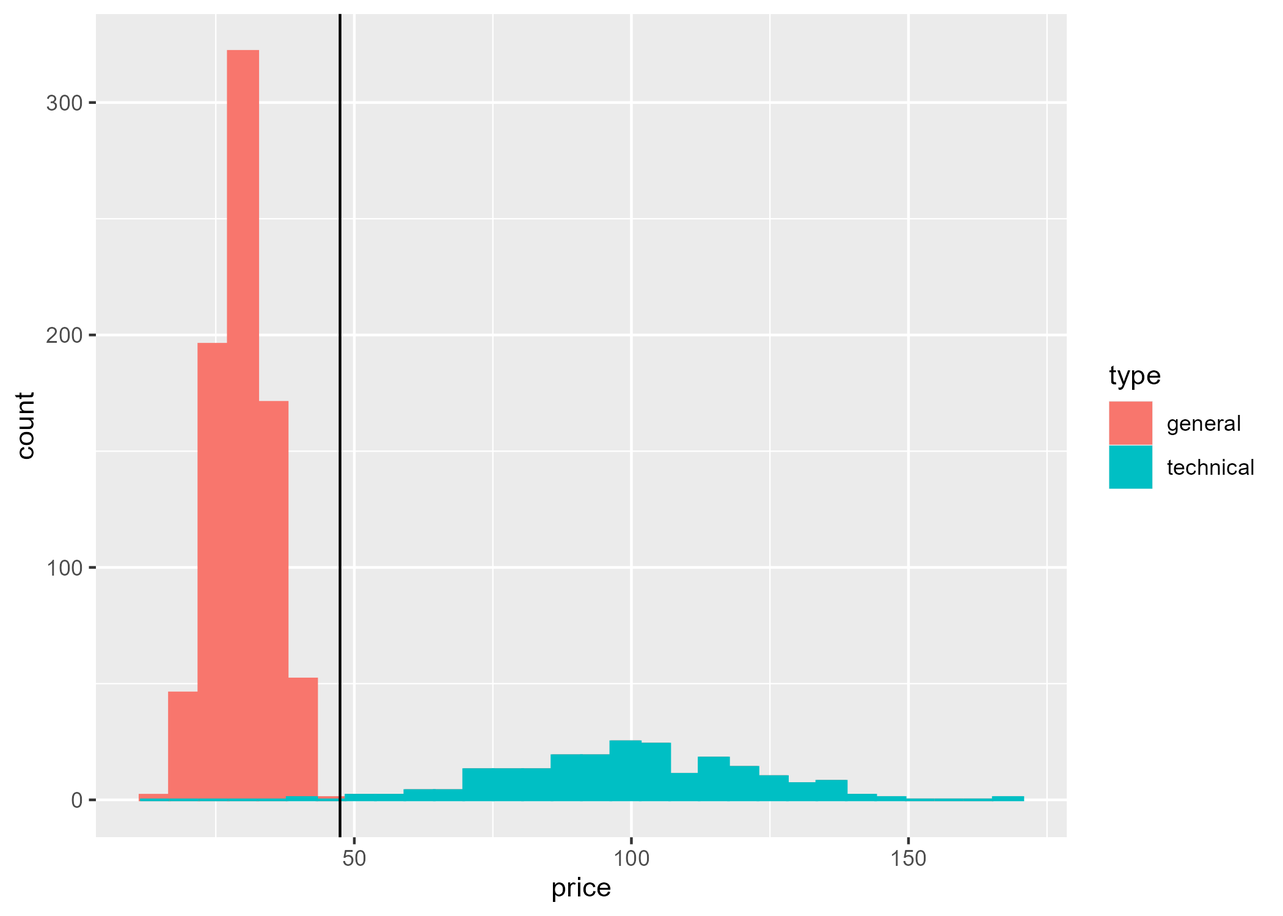
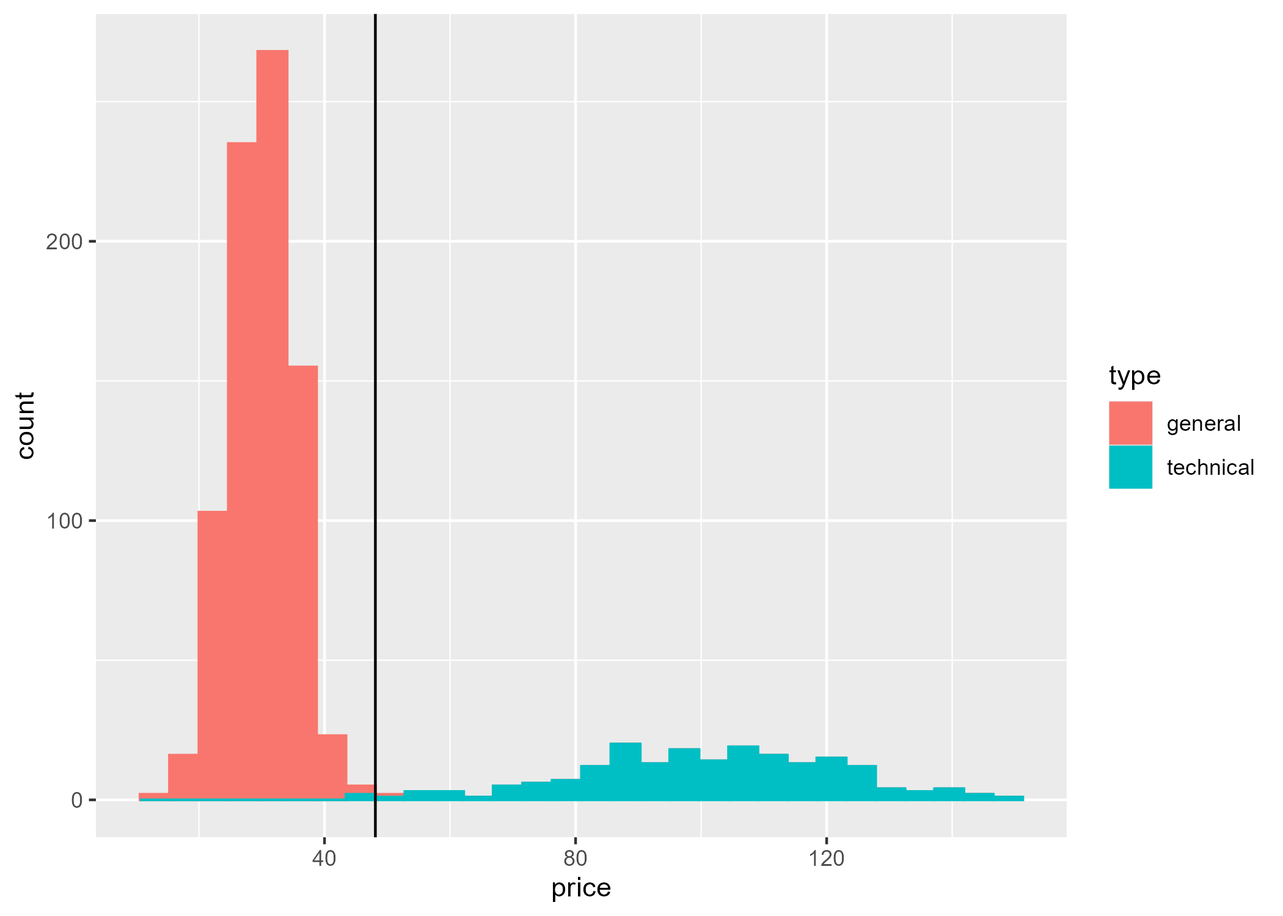
reduce-dim.qmd > LDA > Toy Example: ensure a common x-axis for the first two scenarios.

diff --git a/_book/reduce-dim.html b/_book/reduce-dim.html
@@ -376,7 +376,7 @@ window.Quarto = {
   <li><a href="#cancer-genomics-nci60" id="toc-cancer-genomics-nci60" class="nav-link" data-scroll-target="#cancer-genomics-nci60"><span class="header-section-number">7.1.4</span> Cancer Genomics (NCI60)</a></li>
   </ul></li>
   <li><a href="#sec-dim-r-curse" id="toc-sec-dim-r-curse" class="nav-link" data-scroll-target="#sec-dim-r-curse"><span class="header-section-number">7.2</span> Dimensionality: Curse and Blessing</a></li>
-  <li><a href="#sec-dim-r-pca" id="toc-sec-dim-r-pca" class="nav-link" data-scroll-target="#sec-dim-r-pca"><span class="header-section-number">7.3</span> Principal Component Analysis</a>
+  <li><a href="#sec-dim-r-pca" id="toc-sec-dim-r-pca" class="nav-link" data-scroll-target="#sec-dim-r-pca"><span class="header-section-number">7.3</span> PCA: Principal Component Analysis</a>
   <ul>
   <li><a href="#d-example-galton-heights" id="toc-d-example-galton-heights" class="nav-link" data-scroll-target="#d-example-galton-heights"><span class="header-section-number">7.3.1</span> 2D Example: Galton heights</a></li>
   <li><a href="#d-example-us-arrests" id="toc-d-example-us-arrests" class="nav-link" data-scroll-target="#d-example-us-arrests"><span class="header-section-number">7.3.2</span> 3D Example: US Arrests</a></li>
@@ -439,7 +439,7 @@ window.Quarto = {
     <div>
     <div class="quarto-title-meta-heading">Published</div>
     <div class="quarto-title-meta-contents">
-      <p class="date">11:30 Tue 25-Nov-2025</p>
+      <p class="date">14:18 Tue 25-Nov-2025</p>
     </div>
   </div>
   
@@ -639,8 +639,8 @@ Figure&nbsp;7.1: Violent Crime Rates per US State (1973)
 <div id="fig-arrests-3d-scatter" class="cell-output-display quarto-float quarto-figure quarto-figure-center anchored">
 <figure class="quarto-float quarto-float-fig figure">
 <div aria-describedby="fig-arrests-3d-scatter-caption-0ceaefa1-69ba-4598-a22c-09a6ac19f8ca">
-<div class="plotly html-widget html-fill-item" id="htmlwidget-4d69d4f44c3f3319bedb" style="width:100%;height:464px;"></div>
-<script type="application/json" data-for="htmlwidget-4d69d4f44c3f3319bedb">{"x":{"visdat":{"8a7077152c36":["function () ","plotlyVisDat"]},"cur_data":"8a7077152c36","attrs":{"8a7077152c36":{"x":{},"y":{},"z":{},"mode":"markers","text":{},"marker":{"size":5,"color":{},"colorscale":"Viridis","showscale":true,"colorbar":{"title":"UrbanPop"}},"alpha_stroke":1,"sizes":[10,100],"spans":[1,20],"type":"scatter3d"}},"layout":{"margin":{"b":40,"l":60,"t":25,"r":10},"scene":{"xaxis":{"title":"Assault"},"yaxis":{"title":"Rape"},"zaxis":{"title":"Murder"}},"title":"Violent Crime Rates in each US State (1973)","hovermode":"closest","showlegend":false},"source":"A","config":{"modeBarButtonsToAdd":["hoverclosest","hovercompare"],"showSendToCloud":false},"data":[{"x":[236,263,294,190,276,204,110,238,335,211,46,120,249,113,56,115,109,249,83,300,149,255,72,259,178,109,102,252,57,159,285,254,337,45,120,151,159,106,174,279,86,188,201,120,48,156,145,81,53,161],"y":[21.199999999999999,44.5,31,19.5,40.600000000000001,38.700000000000003,11.1,15.800000000000001,31.899999999999999,25.800000000000001,20.199999999999999,14.199999999999999,24,21,11.300000000000001,18,16.300000000000001,22.199999999999999,7.7999999999999998,27.800000000000001,16.300000000000001,35.100000000000001,14.9,17.100000000000001,28.199999999999999,16.399999999999999,16.5,46,9.5,18.800000000000001,32.100000000000001,26.100000000000001,16.100000000000001,7.2999999999999998,21.399999999999999,20,29.300000000000001,14.9,8.3000000000000007,22.5,12.800000000000001,26.899999999999999,25.5,22.899999999999999,11.199999999999999,20.699999999999999,26.199999999999999,9.3000000000000007,10.800000000000001,15.6],"z":[13.199999999999999,10,8.0999999999999996,8.8000000000000007,9,7.9000000000000004,3.2999999999999998,5.9000000000000004,15.4,17.399999999999999,5.2999999999999998,2.6000000000000001,10.4,7.2000000000000002,2.2000000000000002,6,9.6999999999999993,15.4,2.1000000000000001,11.300000000000001,4.4000000000000004,12.1,2.7000000000000002,16.100000000000001,9,6,4.2999999999999998,12.199999999999999,2.1000000000000001,7.4000000000000004,11.4,11.1,13,0.80000000000000004,7.2999999999999998,6.5999999999999996,4.9000000000000004,6.2999999999999998,3.3999999999999999,14.4,3.7999999999999998,13.199999999999999,12.699999999999999,3.2000000000000002,2.2000000000000002,8.5,4,5.7000000000000002,2.6000000000000001,6.7999999999999998],"mode":"markers","text":["AL","AK","AZ","AR","CA","CO","CT","DE","FL","GA","HI","ID","IL","IN","IA","KS","KY","LA","ME","MD","MA","MI","MN","MS","MO","MT","NE","NV","NH","NJ","NM","NY","NC","ND","OH","OK","OR","PA","RI","SC","SD","TN","TX","UT","VT","VA","WA","WV","WI","WY"],"marker":{"color":[58,48,80,50,91,78.5,77,72,80.5,60,83,54,83,65,57,66,52,66,51,76.599999999999994,85,74,66,44.5,70,53,61.5,81,56,89,70,86,45,44,75,68,67,71.5,87,48,45,59,80,80,32,63,73,39,66,60.5],"size":5,"colorscale":"Viridis","showscale":true,"colorbar":{"title":"UrbanPop"},"line":{"color":"rgba(31,119,180,1)"}},"type":"scatter3d","error_y":{"color":"rgba(31,119,180,1)"},"error_x":{"color":"rgba(31,119,180,1)"},"line":{"color":"rgba(31,119,180,1)"},"frame":null}],"highlight":{"on":"plotly_click","persistent":false,"dynamic":false,"selectize":false,"opacityDim":0.20000000000000001,"selected":{"opacity":1},"debounce":0},"shinyEvents":["plotly_hover","plotly_click","plotly_selected","plotly_relayout","plotly_brushed","plotly_brushing","plotly_clickannotation","plotly_doubleclick","plotly_deselect","plotly_afterplot","plotly_sunburstclick"],"base_url":"https://plot.ly"},"evals":[],"jsHooks":[]}</script>
+<div class="plotly html-widget html-fill-item" id="htmlwidget-e858f852c8847238b1bd" style="width:100%;height:464px;"></div>
+<script type="application/json" data-for="htmlwidget-e858f852c8847238b1bd">{"x":{"visdat":{"65ec51e6ab1":["function () ","plotlyVisDat"]},"cur_data":"65ec51e6ab1","attrs":{"65ec51e6ab1":{"x":{},"y":{},"z":{},"mode":"markers","text":{},"marker":{"size":5,"color":{},"colorscale":"Viridis","showscale":true,"colorbar":{"title":"UrbanPop"}},"alpha_stroke":1,"sizes":[10,100],"spans":[1,20],"type":"scatter3d"}},"layout":{"margin":{"b":40,"l":60,"t":25,"r":10},"scene":{"xaxis":{"title":"Assault"},"yaxis":{"title":"Rape"},"zaxis":{"title":"Murder"}},"title":"Violent Crime Rates in each US State (1973)","hovermode":"closest","showlegend":false},"source":"A","config":{"modeBarButtonsToAdd":["hoverclosest","hovercompare"],"showSendToCloud":false},"data":[{"x":[236,263,294,190,276,204,110,238,335,211,46,120,249,113,56,115,109,249,83,300,149,255,72,259,178,109,102,252,57,159,285,254,337,45,120,151,159,106,174,279,86,188,201,120,48,156,145,81,53,161],"y":[21.199999999999999,44.5,31,19.5,40.600000000000001,38.700000000000003,11.1,15.800000000000001,31.899999999999999,25.800000000000001,20.199999999999999,14.199999999999999,24,21,11.300000000000001,18,16.300000000000001,22.199999999999999,7.7999999999999998,27.800000000000001,16.300000000000001,35.100000000000001,14.9,17.100000000000001,28.199999999999999,16.399999999999999,16.5,46,9.5,18.800000000000001,32.100000000000001,26.100000000000001,16.100000000000001,7.2999999999999998,21.399999999999999,20,29.300000000000001,14.9,8.3000000000000007,22.5,12.800000000000001,26.899999999999999,25.5,22.899999999999999,11.199999999999999,20.699999999999999,26.199999999999999,9.3000000000000007,10.800000000000001,15.6],"z":[13.199999999999999,10,8.0999999999999996,8.8000000000000007,9,7.9000000000000004,3.2999999999999998,5.9000000000000004,15.4,17.399999999999999,5.2999999999999998,2.6000000000000001,10.4,7.2000000000000002,2.2000000000000002,6,9.6999999999999993,15.4,2.1000000000000001,11.300000000000001,4.4000000000000004,12.1,2.7000000000000002,16.100000000000001,9,6,4.2999999999999998,12.199999999999999,2.1000000000000001,7.4000000000000004,11.4,11.1,13,0.80000000000000004,7.2999999999999998,6.5999999999999996,4.9000000000000004,6.2999999999999998,3.3999999999999999,14.4,3.7999999999999998,13.199999999999999,12.699999999999999,3.2000000000000002,2.2000000000000002,8.5,4,5.7000000000000002,2.6000000000000001,6.7999999999999998],"mode":"markers","text":["AL","AK","AZ","AR","CA","CO","CT","DE","FL","GA","HI","ID","IL","IN","IA","KS","KY","LA","ME","MD","MA","MI","MN","MS","MO","MT","NE","NV","NH","NJ","NM","NY","NC","ND","OH","OK","OR","PA","RI","SC","SD","TN","TX","UT","VT","VA","WA","WV","WI","WY"],"marker":{"color":[58,48,80,50,91,78.5,77,72,80.5,60,83,54,83,65,57,66,52,66,51,76.599999999999994,85,74,66,44.5,70,53,61.5,81,56,89,70,86,45,44,75,68,67,71.5,87,48,45,59,80,80,32,63,73,39,66,60.5],"size":5,"colorscale":"Viridis","showscale":true,"colorbar":{"title":"UrbanPop"},"line":{"color":"rgba(31,119,180,1)"}},"type":"scatter3d","error_y":{"color":"rgba(31,119,180,1)"},"error_x":{"color":"rgba(31,119,180,1)"},"line":{"color":"rgba(31,119,180,1)"},"frame":null}],"highlight":{"on":"plotly_click","persistent":false,"dynamic":false,"selectize":false,"opacityDim":0.20000000000000001,"selected":{"opacity":1},"debounce":0},"shinyEvents":["plotly_hover","plotly_click","plotly_selected","plotly_relayout","plotly_brushed","plotly_brushing","plotly_clickannotation","plotly_doubleclick","plotly_deselect","plotly_afterplot","plotly_sunburstclick"],"base_url":"https://plot.ly"},"evals":[],"jsHooks":[]}</script>
 </div>
 <figcaption class="quarto-float-caption-bottom quarto-float-caption quarto-float-fig" id="fig-arrests-3d-scatter-caption-0ceaefa1-69ba-4598-a22c-09a6ac19f8ca">
 Figure&nbsp;7.2: Violent Crime Rates in each US State (1973)
@@ -919,7 +919,7 @@ Table&nbsp;7.4: Feature-quality correleations among (red, white) wines
 <p>The remainder of this chapter develops methods that exploit such opportunities. We begin with Principal Component Analysis (<a href="#sec-dim-r-pca" class="quarto-xref"><span>Section 7.3</span></a>), which finds low-dimensional approximations to high-dimensional data through eigen-decomposition. We then explore how supervision (<a href="#sec-dim-r-supervised" class="quarto-xref"><span>Section 7.5</span></a>) can guide dimension reduction when prediction is the goal. Finally, we examine computational strategies (<span class="quarto-unresolved-ref">?sec-dim-r-computation</span>) for extreme cases like NCI60 where <span class="math inline">\(d \gg n\)</span>.</p>
 </section>
 <section id="sec-dim-r-pca" class="level2" data-number="7.3">
-<h2 data-number="7.3" class="anchored" data-anchor-id="sec-dim-r-pca"><span class="header-section-number">7.3</span> Principal Component Analysis</h2>
+<h2 data-number="7.3" class="anchored" data-anchor-id="sec-dim-r-pca"><span class="header-section-number">7.3</span> PCA: Principal Component Analysis</h2>
 <p>Principal Component Analysis (PCA) is one of the most widely used methods to approximate a feature matrix of <span class="math inline">\(d\)</span> features with substantially fewer linear combinations of those features. The goal is to reveal the primary structure of the data and facilitate subsequent analyses (regression or classification, for example).</p>
 <p>We introduce the concept of a principal component using a 2D example (Galton height data), present a 3D example (US Arrest data) of constructing a single index of violent crime arrests from the three types of crimes in the feature matrix, and then move on to higher dimensional examples. See <span class="citation" data-cites="r_doc_LearnPCA">Hanson and Harvey (<a href="references.html#ref-r_doc_LearnPCA" role="doc-biblioref">2024</a>)</span> for an in-depth introduction to PCA.</p>
 <section id="d-example-galton-heights" class="level3" data-number="7.3.1">
@@ -951,8 +951,8 @@ Figure&nbsp;7.6: Principal Components: (father, son) centered heights
 <div id="fig-arm-pca" class="cell-output-display quarto-float quarto-figure quarto-figure-center anchored">
 <figure class="quarto-float quarto-float-fig figure">
 <div aria-describedby="fig-arm-pca-caption-0ceaefa1-69ba-4598-a22c-09a6ac19f8ca">
-<div class="plotly html-widget html-fill-item" id="htmlwidget-0f4744d7b4c1b33e36ad" style="width:100%;height:464px;"></div>
-<script type="application/json" data-for="htmlwidget-0f4744d7b4c1b33e36ad">{"x":{"visdat":{"8a704fac2b66":["function () ","plotlyVisDat"]},"cur_data":"8a704fac2b66","attrs":{"8a704fac2b66":{"x":[0.78283934708991831,1.106822522617628,1.4788032056309246,0.23086801100567186,1.2628144219457846,0.39885928720522512,-0.72908213870606098,0.80683810083271157,1.9707776573581877,0.48285492530500174,-1.4970422584754473,-0.60908836999209437,0.93883124641807492,-0.69308400809187098,-1.3770484897614808,-0.66908525434907773,-0.74108151557745772,0.93883124641807492,-1.0530653142337709,1.5507994668593046,-0.26110644072159123,1.0108275076464548,-1.185058459819134,1.0588250151320415,0.086875488548911931,-0.74108151557745772,-0.82507715367723433,0.9748293770322648,-1.3650491128900841,-0.14111267200762462,1.3708088137883547,0.99882813077505817,1.9947764111009809,-1.5090416353468439,-0.60908836999209437,-0.23710768697879792,-0.14111267200762462,-0.7770796461916476,0.038877981063325288,1.2988125525599747,-1.0170671836195808,0.20686925726287855,0.36286115659103513,-0.60908836999209437,-1.473043504732654,-0.17711080262181461,-0.3091039482071779,-1.0770640679765642,-1.4130466203756706,-0.11711391826483131],"y":[-0.0034164730151624227,2.4842029411499742,1.0428783878783285,-0.18491660194566589,2.0678202924270548,1.8649672071517862,-1.0817407684258011,-0.57994629432382061,1.1389666914297716,0.48770152291443553,-0.11018125473898803,-0.75076994508194173,0.29552491581154938,-0.024769429359927469,-1.0603878120810357,-0.3450637745314043,-0.52656390346190773,0.10334830870866318,-1.4340645481144254,0.70123108636208675,-0.52656390346190773,1.4806139929460138,-0.67603459787526365,-0.44115207808284718,0.74393699905161681,-0.51588742528952547,-0.50521094711714276,2.6443501137357126,-1.252564419183922,-0.25965194915234374,1.160319647774537,0.51973095743158326,-0.54791685980667282,-1.4874469389763383,0.017936483329602623,-0.13153421108375307,0.86137825894782516,-0.67603459787526365,-1.3806821572525125,0.13537774322581095,-0.90024063949529742,0.60514278281064349,0.45567208839728779,0.17808365591534103,-1.0710642902534184,-0.05679886387707523,0.53040743560396564,-1.273917375528687,-1.1137702029429486,-0.60129925066858581],"z":[1.2425640838811227,0.50786248217757646,0.071633406166095634,0.23234938153874665,0.27826823164521813,0.025714556059624149,-1.0304189963892241,-0.43347394500509234,1.747671435052311,2.2068599361170271,-0.57123049532450743,-1.1911349717618749,0.59970018239051981,-0.13500141931302667,-1.282972671974818,-0.41051451995185662,0.43898420701786878,1.747671435052311,-1.3059320970280539,0.8063350078696423,-0.7778653208036298,0.99001040829552867,-1.1681755467086388,1.9083874104249621,0.27826823164521813,-0.41051451995185662,-0.80082474585686569,1.0129698333487644,-1.3059320970280539,-0.089082569206554982,0.82929443292287808,0.7604161577631704,1.1966452337746512,-1.6044046227201196,-0.11204199425979093,-0.27275796963244175,-0.66306819553745067,-0.34163624479214921,-1.007459571335988,1.5180771845199528,-0.91562187112304483,1.2425640838811227,1.1277669586149435,-1.0533784214424597,-1.282972671974818,0.16347110637903903,-0.86970302101657315,-0.47939279511156407,-1.1911349717618749,-0.22683911952597005],"mode":"markers","text":["AL","AK","AZ","AR","CA","CO","CT","DE","FL","GA","HI","ID","IL","IN","IA","KS","KY","LA","ME","MD","MA","MI","MN","MS","MO","MT","NE","NV","NH","NJ","NM","NY","NC","ND","OH","OK","OR","PA","RI","SC","SD","TN","TX","UT","VT","VA","WA","WV","WI","WY"],"marker":{"size":4,"color":"steelblue","opacity":0.69999999999999996},"name":"State","alpha_stroke":1,"sizes":[10,100],"spans":[1,20],"type":"scatter3d"},"8a704fac2b66.1":{"x":[0,1.5489298635318458],"y":[0,1.3741651111024438],"z":[0,1.4842670890217005],"type":"scatter3d","mode":"lines","line":{"width":6,"color":"darkorange"},"name":"PC1","showlegend":false,"inherit":false},"8a704fac2b66.2":{"x":[0,-0.29354746751601463],"y":[0,1.1219106831632701],"z":[0,-0.73235207316550643],"type":"scatter3d","mode":"lines","line":{"width":6,"color":"purple"},"name":"PC2","showlegend":false,"inherit":false},"8a704fac2b66.3":{"x":[0,0.68703516343273274],"y":[0,-0.17966971158361228],"z":[0,-0.55062423656922754],"type":"scatter3d","mode":"lines","line":{"width":6,"color":"darkgreen"},"name":"PC3","showlegend":false,"inherit":false}},"layout":{"margin":{"b":40,"l":60,"t":25,"r":10},"scene":{"xaxis":{"title":"z_Assault"},"yaxis":{"title":"z_Rape"},"zaxis":{"title":"z_Murder"},"aspectmode":"cube"},"title":"US Arrest Z-scores: Principal Components","hovermode":"closest","showlegend":false},"source":"A","config":{"modeBarButtonsToAdd":["hoverclosest","hovercompare"],"showSendToCloud":false},"data":[{"x":[0.78283934708991831,1.106822522617628,1.4788032056309246,0.23086801100567186,1.2628144219457846,0.39885928720522512,-0.72908213870606098,0.80683810083271157,1.9707776573581877,0.48285492530500174,-1.4970422584754473,-0.60908836999209437,0.93883124641807492,-0.69308400809187098,-1.3770484897614808,-0.66908525434907773,-0.74108151557745772,0.93883124641807492,-1.0530653142337709,1.5507994668593046,-0.26110644072159123,1.0108275076464548,-1.185058459819134,1.0588250151320415,0.086875488548911931,-0.74108151557745772,-0.82507715367723433,0.9748293770322648,-1.3650491128900841,-0.14111267200762462,1.3708088137883547,0.99882813077505817,1.9947764111009809,-1.5090416353468439,-0.60908836999209437,-0.23710768697879792,-0.14111267200762462,-0.7770796461916476,0.038877981063325288,1.2988125525599747,-1.0170671836195808,0.20686925726287855,0.36286115659103513,-0.60908836999209437,-1.473043504732654,-0.17711080262181461,-0.3091039482071779,-1.0770640679765642,-1.4130466203756706,-0.11711391826483131],"y":[-0.0034164730151624227,2.4842029411499742,1.0428783878783285,-0.18491660194566589,2.0678202924270548,1.8649672071517862,-1.0817407684258011,-0.57994629432382061,1.1389666914297716,0.48770152291443553,-0.11018125473898803,-0.75076994508194173,0.29552491581154938,-0.024769429359927469,-1.0603878120810357,-0.3450637745314043,-0.52656390346190773,0.10334830870866318,-1.4340645481144254,0.70123108636208675,-0.52656390346190773,1.4806139929460138,-0.67603459787526365,-0.44115207808284718,0.74393699905161681,-0.51588742528952547,-0.50521094711714276,2.6443501137357126,-1.252564419183922,-0.25965194915234374,1.160319647774537,0.51973095743158326,-0.54791685980667282,-1.4874469389763383,0.017936483329602623,-0.13153421108375307,0.86137825894782516,-0.67603459787526365,-1.3806821572525125,0.13537774322581095,-0.90024063949529742,0.60514278281064349,0.45567208839728779,0.17808365591534103,-1.0710642902534184,-0.05679886387707523,0.53040743560396564,-1.273917375528687,-1.1137702029429486,-0.60129925066858581],"z":[1.2425640838811227,0.50786248217757646,0.071633406166095634,0.23234938153874665,0.27826823164521813,0.025714556059624149,-1.0304189963892241,-0.43347394500509234,1.747671435052311,2.2068599361170271,-0.57123049532450743,-1.1911349717618749,0.59970018239051981,-0.13500141931302667,-1.282972671974818,-0.41051451995185662,0.43898420701786878,1.747671435052311,-1.3059320970280539,0.8063350078696423,-0.7778653208036298,0.99001040829552867,-1.1681755467086388,1.9083874104249621,0.27826823164521813,-0.41051451995185662,-0.80082474585686569,1.0129698333487644,-1.3059320970280539,-0.089082569206554982,0.82929443292287808,0.7604161577631704,1.1966452337746512,-1.6044046227201196,-0.11204199425979093,-0.27275796963244175,-0.66306819553745067,-0.34163624479214921,-1.007459571335988,1.5180771845199528,-0.91562187112304483,1.2425640838811227,1.1277669586149435,-1.0533784214424597,-1.282972671974818,0.16347110637903903,-0.86970302101657315,-0.47939279511156407,-1.1911349717618749,-0.22683911952597005],"mode":"markers","text":["AL","AK","AZ","AR","CA","CO","CT","DE","FL","GA","HI","ID","IL","IN","IA","KS","KY","LA","ME","MD","MA","MI","MN","MS","MO","MT","NE","NV","NH","NJ","NM","NY","NC","ND","OH","OK","OR","PA","RI","SC","SD","TN","TX","UT","VT","VA","WA","WV","WI","WY"],"marker":{"color":"steelblue","size":4,"opacity":0.69999999999999996,"line":{"color":"rgba(31,119,180,1)"}},"name":"State","type":"scatter3d","error_y":{"color":"rgba(31,119,180,1)"},"error_x":{"color":"rgba(31,119,180,1)"},"line":{"color":"rgba(31,119,180,1)"},"frame":null},{"x":[0,1.5489298635318458],"y":[0,1.3741651111024438],"z":[0,1.4842670890217005],"type":"scatter3d","mode":"lines","line":{"color":"darkorange","width":6},"name":"PC1","showlegend":false,"marker":{"color":"rgba(255,127,14,1)","line":{"color":"rgba(255,127,14,1)"}},"error_y":{"color":"rgba(255,127,14,1)"},"error_x":{"color":"rgba(255,127,14,1)"},"frame":null},{"x":[0,-0.29354746751601463],"y":[0,1.1219106831632701],"z":[0,-0.73235207316550643],"type":"scatter3d","mode":"lines","line":{"color":"purple","width":6},"name":"PC2","showlegend":false,"marker":{"color":"rgba(44,160,44,1)","line":{"color":"rgba(44,160,44,1)"}},"error_y":{"color":"rgba(44,160,44,1)"},"error_x":{"color":"rgba(44,160,44,1)"},"frame":null},{"x":[0,0.68703516343273274],"y":[0,-0.17966971158361228],"z":[0,-0.55062423656922754],"type":"scatter3d","mode":"lines","line":{"color":"darkgreen","width":6},"name":"PC3","showlegend":false,"marker":{"color":"rgba(214,39,40,1)","line":{"color":"rgba(214,39,40,1)"}},"error_y":{"color":"rgba(214,39,40,1)"},"error_x":{"color":"rgba(214,39,40,1)"},"frame":null}],"highlight":{"on":"plotly_click","persistent":false,"dynamic":false,"selectize":false,"opacityDim":0.20000000000000001,"selected":{"opacity":1},"debounce":0},"shinyEvents":["plotly_hover","plotly_click","plotly_selected","plotly_relayout","plotly_brushed","plotly_brushing","plotly_clickannotation","plotly_doubleclick","plotly_deselect","plotly_afterplot","plotly_sunburstclick"],"base_url":"https://plot.ly"},"evals":[],"jsHooks":[]}</script>
+<div class="plotly html-widget html-fill-item" id="htmlwidget-a9f46fa1df12992e299b" style="width:100%;height:464px;"></div>
+<script type="application/json" data-for="htmlwidget-a9f46fa1df12992e299b">{"x":{"visdat":{"65ec111e7bae":["function () ","plotlyVisDat"]},"cur_data":"65ec111e7bae","attrs":{"65ec111e7bae":{"x":[0.78283934708991831,1.106822522617628,1.4788032056309246,0.23086801100567186,1.2628144219457846,0.39885928720522512,-0.72908213870606098,0.80683810083271157,1.9707776573581877,0.48285492530500174,-1.4970422584754473,-0.60908836999209437,0.93883124641807492,-0.69308400809187098,-1.3770484897614808,-0.66908525434907773,-0.74108151557745772,0.93883124641807492,-1.0530653142337709,1.5507994668593046,-0.26110644072159123,1.0108275076464548,-1.185058459819134,1.0588250151320415,0.086875488548911931,-0.74108151557745772,-0.82507715367723433,0.9748293770322648,-1.3650491128900841,-0.14111267200762462,1.3708088137883547,0.99882813077505817,1.9947764111009809,-1.5090416353468439,-0.60908836999209437,-0.23710768697879792,-0.14111267200762462,-0.7770796461916476,0.038877981063325288,1.2988125525599747,-1.0170671836195808,0.20686925726287855,0.36286115659103513,-0.60908836999209437,-1.473043504732654,-0.17711080262181461,-0.3091039482071779,-1.0770640679765642,-1.4130466203756706,-0.11711391826483131],"y":[-0.0034164730151624227,2.4842029411499742,1.0428783878783285,-0.18491660194566589,2.0678202924270548,1.8649672071517862,-1.0817407684258011,-0.57994629432382061,1.1389666914297716,0.48770152291443553,-0.11018125473898803,-0.75076994508194173,0.29552491581154938,-0.024769429359927469,-1.0603878120810357,-0.3450637745314043,-0.52656390346190773,0.10334830870866318,-1.4340645481144254,0.70123108636208675,-0.52656390346190773,1.4806139929460138,-0.67603459787526365,-0.44115207808284718,0.74393699905161681,-0.51588742528952547,-0.50521094711714276,2.6443501137357126,-1.252564419183922,-0.25965194915234374,1.160319647774537,0.51973095743158326,-0.54791685980667282,-1.4874469389763383,0.017936483329602623,-0.13153421108375307,0.86137825894782516,-0.67603459787526365,-1.3806821572525125,0.13537774322581095,-0.90024063949529742,0.60514278281064349,0.45567208839728779,0.17808365591534103,-1.0710642902534184,-0.05679886387707523,0.53040743560396564,-1.273917375528687,-1.1137702029429486,-0.60129925066858581],"z":[1.2425640838811227,0.50786248217757646,0.071633406166095634,0.23234938153874665,0.27826823164521813,0.025714556059624149,-1.0304189963892241,-0.43347394500509234,1.747671435052311,2.2068599361170271,-0.57123049532450743,-1.1911349717618749,0.59970018239051981,-0.13500141931302667,-1.282972671974818,-0.41051451995185662,0.43898420701786878,1.747671435052311,-1.3059320970280539,0.8063350078696423,-0.7778653208036298,0.99001040829552867,-1.1681755467086388,1.9083874104249621,0.27826823164521813,-0.41051451995185662,-0.80082474585686569,1.0129698333487644,-1.3059320970280539,-0.089082569206554982,0.82929443292287808,0.7604161577631704,1.1966452337746512,-1.6044046227201196,-0.11204199425979093,-0.27275796963244175,-0.66306819553745067,-0.34163624479214921,-1.007459571335988,1.5180771845199528,-0.91562187112304483,1.2425640838811227,1.1277669586149435,-1.0533784214424597,-1.282972671974818,0.16347110637903903,-0.86970302101657315,-0.47939279511156407,-1.1911349717618749,-0.22683911952597005],"mode":"markers","text":["AL","AK","AZ","AR","CA","CO","CT","DE","FL","GA","HI","ID","IL","IN","IA","KS","KY","LA","ME","MD","MA","MI","MN","MS","MO","MT","NE","NV","NH","NJ","NM","NY","NC","ND","OH","OK","OR","PA","RI","SC","SD","TN","TX","UT","VT","VA","WA","WV","WI","WY"],"marker":{"size":4,"color":"steelblue","opacity":0.69999999999999996},"name":"State","alpha_stroke":1,"sizes":[10,100],"spans":[1,20],"type":"scatter3d"},"65ec111e7bae.1":{"x":[0,1.5489298635318458],"y":[0,1.3741651111024438],"z":[0,1.4842670890217005],"type":"scatter3d","mode":"lines","line":{"width":6,"color":"darkorange"},"name":"PC1","showlegend":false,"inherit":false},"65ec111e7bae.2":{"x":[0,-0.29354746751601463],"y":[0,1.1219106831632701],"z":[0,-0.73235207316550643],"type":"scatter3d","mode":"lines","line":{"width":6,"color":"purple"},"name":"PC2","showlegend":false,"inherit":false},"65ec111e7bae.3":{"x":[0,0.68703516343273274],"y":[0,-0.17966971158361228],"z":[0,-0.55062423656922754],"type":"scatter3d","mode":"lines","line":{"width":6,"color":"darkgreen"},"name":"PC3","showlegend":false,"inherit":false}},"layout":{"margin":{"b":40,"l":60,"t":25,"r":10},"scene":{"xaxis":{"title":"z_Assault"},"yaxis":{"title":"z_Rape"},"zaxis":{"title":"z_Murder"},"aspectmode":"cube"},"title":"US Arrest Z-scores: Principal Components","hovermode":"closest","showlegend":false},"source":"A","config":{"modeBarButtonsToAdd":["hoverclosest","hovercompare"],"showSendToCloud":false},"data":[{"x":[0.78283934708991831,1.106822522617628,1.4788032056309246,0.23086801100567186,1.2628144219457846,0.39885928720522512,-0.72908213870606098,0.80683810083271157,1.9707776573581877,0.48285492530500174,-1.4970422584754473,-0.60908836999209437,0.93883124641807492,-0.69308400809187098,-1.3770484897614808,-0.66908525434907773,-0.74108151557745772,0.93883124641807492,-1.0530653142337709,1.5507994668593046,-0.26110644072159123,1.0108275076464548,-1.185058459819134,1.0588250151320415,0.086875488548911931,-0.74108151557745772,-0.82507715367723433,0.9748293770322648,-1.3650491128900841,-0.14111267200762462,1.3708088137883547,0.99882813077505817,1.9947764111009809,-1.5090416353468439,-0.60908836999209437,-0.23710768697879792,-0.14111267200762462,-0.7770796461916476,0.038877981063325288,1.2988125525599747,-1.0170671836195808,0.20686925726287855,0.36286115659103513,-0.60908836999209437,-1.473043504732654,-0.17711080262181461,-0.3091039482071779,-1.0770640679765642,-1.4130466203756706,-0.11711391826483131],"y":[-0.0034164730151624227,2.4842029411499742,1.0428783878783285,-0.18491660194566589,2.0678202924270548,1.8649672071517862,-1.0817407684258011,-0.57994629432382061,1.1389666914297716,0.48770152291443553,-0.11018125473898803,-0.75076994508194173,0.29552491581154938,-0.024769429359927469,-1.0603878120810357,-0.3450637745314043,-0.52656390346190773,0.10334830870866318,-1.4340645481144254,0.70123108636208675,-0.52656390346190773,1.4806139929460138,-0.67603459787526365,-0.44115207808284718,0.74393699905161681,-0.51588742528952547,-0.50521094711714276,2.6443501137357126,-1.252564419183922,-0.25965194915234374,1.160319647774537,0.51973095743158326,-0.54791685980667282,-1.4874469389763383,0.017936483329602623,-0.13153421108375307,0.86137825894782516,-0.67603459787526365,-1.3806821572525125,0.13537774322581095,-0.90024063949529742,0.60514278281064349,0.45567208839728779,0.17808365591534103,-1.0710642902534184,-0.05679886387707523,0.53040743560396564,-1.273917375528687,-1.1137702029429486,-0.60129925066858581],"z":[1.2425640838811227,0.50786248217757646,0.071633406166095634,0.23234938153874665,0.27826823164521813,0.025714556059624149,-1.0304189963892241,-0.43347394500509234,1.747671435052311,2.2068599361170271,-0.57123049532450743,-1.1911349717618749,0.59970018239051981,-0.13500141931302667,-1.282972671974818,-0.41051451995185662,0.43898420701786878,1.747671435052311,-1.3059320970280539,0.8063350078696423,-0.7778653208036298,0.99001040829552867,-1.1681755467086388,1.9083874104249621,0.27826823164521813,-0.41051451995185662,-0.80082474585686569,1.0129698333487644,-1.3059320970280539,-0.089082569206554982,0.82929443292287808,0.7604161577631704,1.1966452337746512,-1.6044046227201196,-0.11204199425979093,-0.27275796963244175,-0.66306819553745067,-0.34163624479214921,-1.007459571335988,1.5180771845199528,-0.91562187112304483,1.2425640838811227,1.1277669586149435,-1.0533784214424597,-1.282972671974818,0.16347110637903903,-0.86970302101657315,-0.47939279511156407,-1.1911349717618749,-0.22683911952597005],"mode":"markers","text":["AL","AK","AZ","AR","CA","CO","CT","DE","FL","GA","HI","ID","IL","IN","IA","KS","KY","LA","ME","MD","MA","MI","MN","MS","MO","MT","NE","NV","NH","NJ","NM","NY","NC","ND","OH","OK","OR","PA","RI","SC","SD","TN","TX","UT","VT","VA","WA","WV","WI","WY"],"marker":{"color":"steelblue","size":4,"opacity":0.69999999999999996,"line":{"color":"rgba(31,119,180,1)"}},"name":"State","type":"scatter3d","error_y":{"color":"rgba(31,119,180,1)"},"error_x":{"color":"rgba(31,119,180,1)"},"line":{"color":"rgba(31,119,180,1)"},"frame":null},{"x":[0,1.5489298635318458],"y":[0,1.3741651111024438],"z":[0,1.4842670890217005],"type":"scatter3d","mode":"lines","line":{"color":"darkorange","width":6},"name":"PC1","showlegend":false,"marker":{"color":"rgba(255,127,14,1)","line":{"color":"rgba(255,127,14,1)"}},"error_y":{"color":"rgba(255,127,14,1)"},"error_x":{"color":"rgba(255,127,14,1)"},"frame":null},{"x":[0,-0.29354746751601463],"y":[0,1.1219106831632701],"z":[0,-0.73235207316550643],"type":"scatter3d","mode":"lines","line":{"color":"purple","width":6},"name":"PC2","showlegend":false,"marker":{"color":"rgba(44,160,44,1)","line":{"color":"rgba(44,160,44,1)"}},"error_y":{"color":"rgba(44,160,44,1)"},"error_x":{"color":"rgba(44,160,44,1)"},"frame":null},{"x":[0,0.68703516343273274],"y":[0,-0.17966971158361228],"z":[0,-0.55062423656922754],"type":"scatter3d","mode":"lines","line":{"color":"darkgreen","width":6},"name":"PC3","showlegend":false,"marker":{"color":"rgba(214,39,40,1)","line":{"color":"rgba(214,39,40,1)"}},"error_y":{"color":"rgba(214,39,40,1)"},"error_x":{"color":"rgba(214,39,40,1)"},"frame":null}],"highlight":{"on":"plotly_click","persistent":false,"dynamic":false,"selectize":false,"opacityDim":0.20000000000000001,"selected":{"opacity":1},"debounce":0},"shinyEvents":["plotly_hover","plotly_click","plotly_selected","plotly_relayout","plotly_brushed","plotly_brushing","plotly_clickannotation","plotly_doubleclick","plotly_deselect","plotly_afterplot","plotly_sunburstclick"],"base_url":"https://plot.ly"},"evals":[],"jsHooks":[]}</script>
 </div>
 <figcaption class="quarto-float-caption-bottom quarto-float-caption quarto-float-fig" id="fig-arm-pca-caption-0ceaefa1-69ba-4598-a22c-09a6ac19f8ca">
 Figure&nbsp;7.7: US Arrest Z-scores: Principal Components
@@ -1732,7 +1732,7 @@ Figure&nbsp;7.14: Technical versus general book prices: 3 scenarios
 </figcaption>
 </figure>
 </div>
-<p>In this setting, we use linear and quadratic discriminant methods to distinguish a new book as either technical or general based solely on its price. For the first two scenarios linear discriminant analysis (LDA) provides an optimal distinguishing price marked by the vertical line separating the two modes of the histogram. (In the second scenario, having fewer technical books reduces the risk of mis-classifying them, so the demarcation point increases slightly.) LDA suffices because the technical and general books share the same standard deviation. (Equivalently, they share the same variance.) In the third scenario, the larger book-price standard deviation of technical books increases the risk of mis-classifying a technical book as a general book. Quadratic discrimination (QDA) addresses this possibility and provides a reduced demarcation price to mitigate the risk.</p>
+<p>In this setting, we use linear and quadratic discriminant methods to distinguish a new book as either technical or general based solely on its price. For the first two scenarios linear discriminant analysis (LDA) provides an optimal distinguishing price marked by the vertical line separating the two modes of the histogram. (In the second scenario, having fewer technical books reduces the risk of mis-classifying them, so the demarcation price increases slightly.) LDA suffices because the technical and general books share the same standard deviation. (Equivalently, they share the same variance.) In the third scenario, the larger book-price standard deviation of technical books increases the risk of mis-classifying a technical book as a general book. Quadratic discrimination (QDA) addresses this possibility and provides a reduced demarcation price to mitigate the risk.</p>
 <p>The next section generalizes this book-price example by introducing the LDA model for <span class="math inline">\(d\)</span> predictors of <span class="math inline">\(K\)</span> distinct categories.</p>
 </section>
 <section id="d-predictors-of-k-categories" class="level3" data-number="7.4.2">
